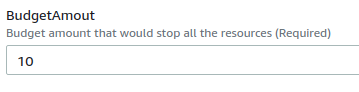
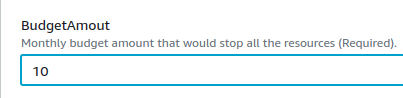
Updating README

Changed region(s): [[0.0, 0.1087, 1.0, 0.8913]]

diff --git a/cloudformation/autocleanup/README.md b/cloudformation/autocleanup/README.md
@@ -46,7 +46,7 @@ The template creates the following resources
 | WaitingTime | Time in seconds that will wait until retrying again      |    Number |
 | EmailAddress | Email address to send notification when the cleaning process ends     |    Number |
 | RetryTimes | The number of times the process will try to clean the resources if they are still running  |    Number |
-| BudgetAmout | Budget amount that will trigger the clean up process, if the billing goes higher than the amount    |    Number |
+| BudgetAmout | Budget amount that will trigger the clean up process, if the billing goes higher than the amount. It is a montly budget that will be created    |    Number |
 | OwnerName   | Name of the owner of the resources, this will be used to tag resources that will be created | String
 | StackName   | Name of the stack, this will be used to tag resources that will be created | String
 
